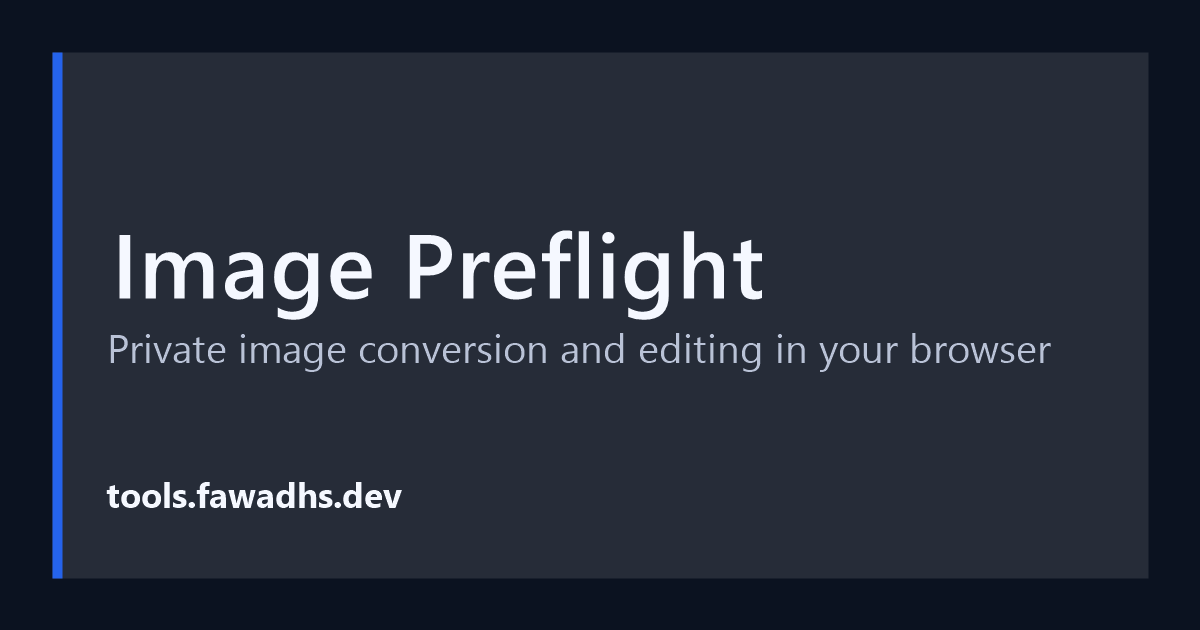
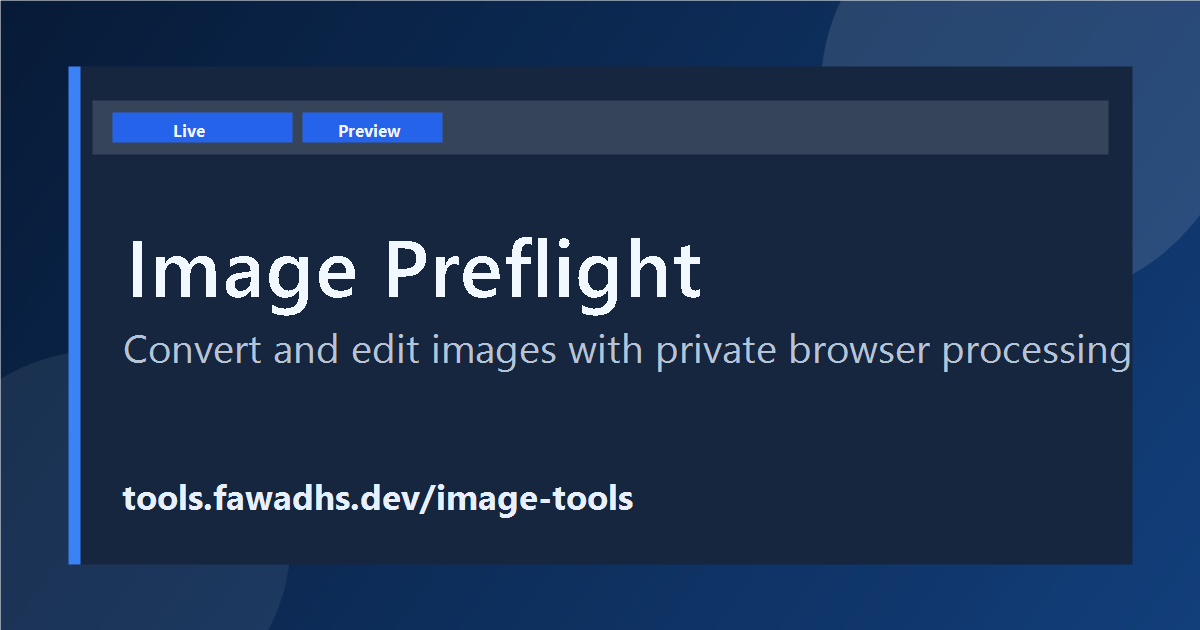
Update image-tools social card and cache-busting URL

diff --git a/index.html b/index.html
@@ -23,8 +23,8 @@
     <meta property="og:url" content="https://tools.fawadhs.dev/image-tools/" />
     <meta property="og:title" content="Image Preflight - Free Privacy-First Image Converter & Editor | Preflight Suite" />
     <meta property="og:description" content="Convert and edit images with client-side processing. Convert HEIC, JPEG, PNG to WebP, AVIF. Batch processing, crop, rotate, filters, text overlay. No uploads, no tracking." />
-    <meta property="og:image" content="https://tools.fawadhs.dev/image-tools/social-preview.png" />
-    <meta property="og:image:secure_url" content="https://tools.fawadhs.dev/image-tools/social-preview.png" />
+    <meta property="og:image" content="https://tools.fawadhs.dev/image-tools/social-preview.png?v=20260218b" />
+    <meta property="og:image:secure_url" content="https://tools.fawadhs.dev/image-tools/social-preview.png?v=20260218b" />
     <meta property="og:image:type" content="image/png" />
     <meta property="og:image:width" content="1200" />
     <meta property="og:image:height" content="630" />
@@ -37,7 +37,7 @@
     <meta name="twitter:url" content="https://tools.fawadhs.dev/image-tools/" />
     <meta name="twitter:title" content="Image Preflight - Free Privacy-First Image Converter & Editor" />
     <meta name="twitter:description" content="Convert HEIC, JPEG, PNG to WebP, AVIF with client-side processing. Batch conversion, image editing, crop, rotate, filters. No uploads, 100% private." />
-    <meta name="twitter:image" content="https://tools.fawadhs.dev/image-tools/social-preview.png" />
+    <meta name="twitter:image" content="https://tools.fawadhs.dev/image-tools/social-preview.png?v=20260218b" />
     <meta name="twitter:image:alt" content="Image Preflight social preview" />
     <meta name="twitter:creator" content="@fawadhs" />
     
@@ -157,3 +157,4 @@
     </script>
   </body>
 </html>
+
